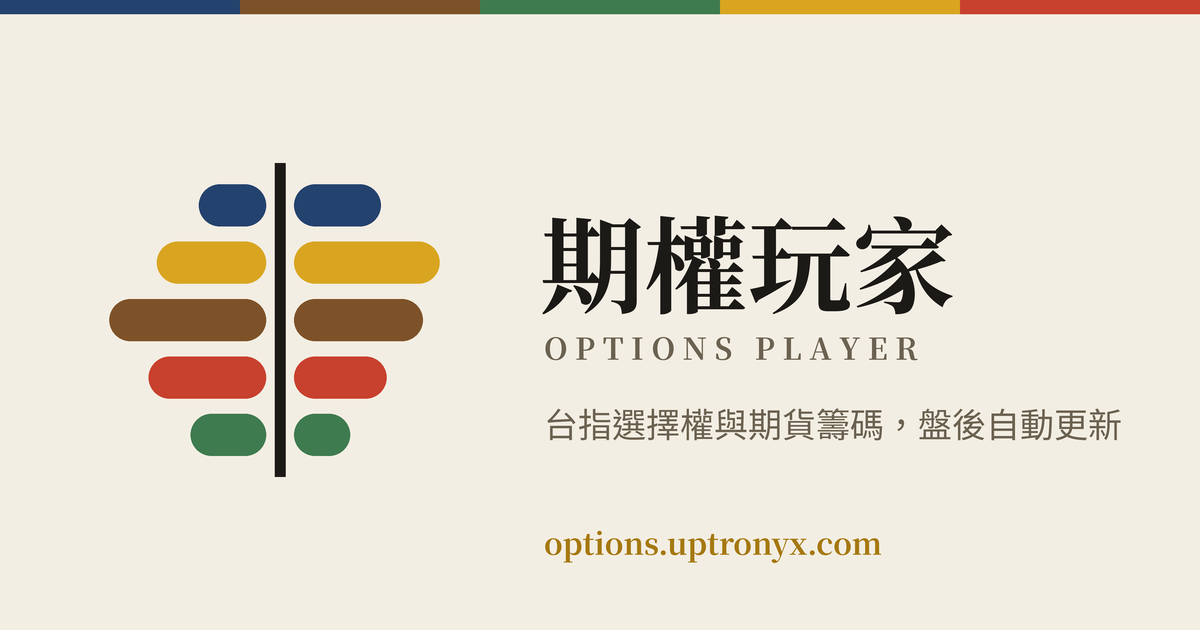
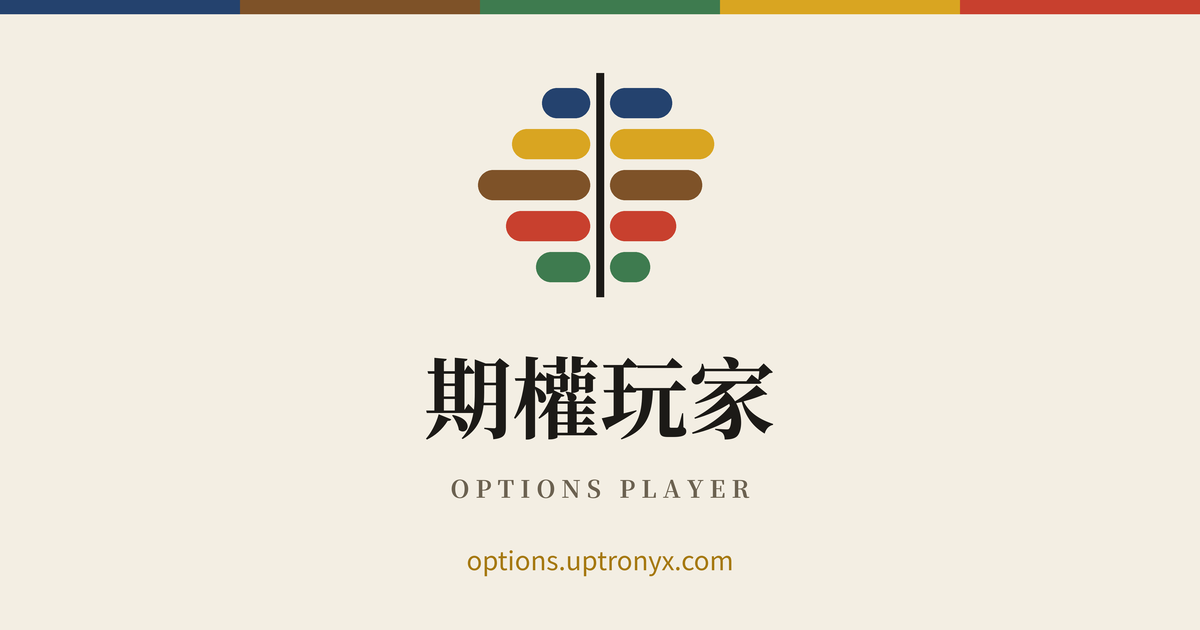
og 預覽圖改置中版面，小圖也能完整顯示
Claude-Session: https://claude.ai/code/session_01GekBCvjsCwmmGi2NPTkK6J

Changed region(s): [[0.0925, 0.1206, 0.9558, 0.754], [0.37, 0.8444, 0.74, 0.9048], [0.37, 0.754, 0.6167, 0.7841]]

diff --git a/index.html b/index.html
@@ -11,7 +11,7 @@
 <meta property="og:title" content="期權玩家｜uptronyx">
 <meta property="og:description" content="台指選擇權與期貨三大法人籌碼、外資避險、融資與正2 ETF 期貨部位，盤後自動更新。">
 <meta property="og:url" content="https://options.uptronyx.com/">
-<meta property="og:image" content="https://options.uptronyx.com/og.png?v=1">
+<meta property="og:image" content="https://options.uptronyx.com/og.png?v=2">
 <meta property="og:image:width" content="1200">
 <meta property="og:image:height" content="630">
 <meta name="twitter:card" content="summary_large_image">
